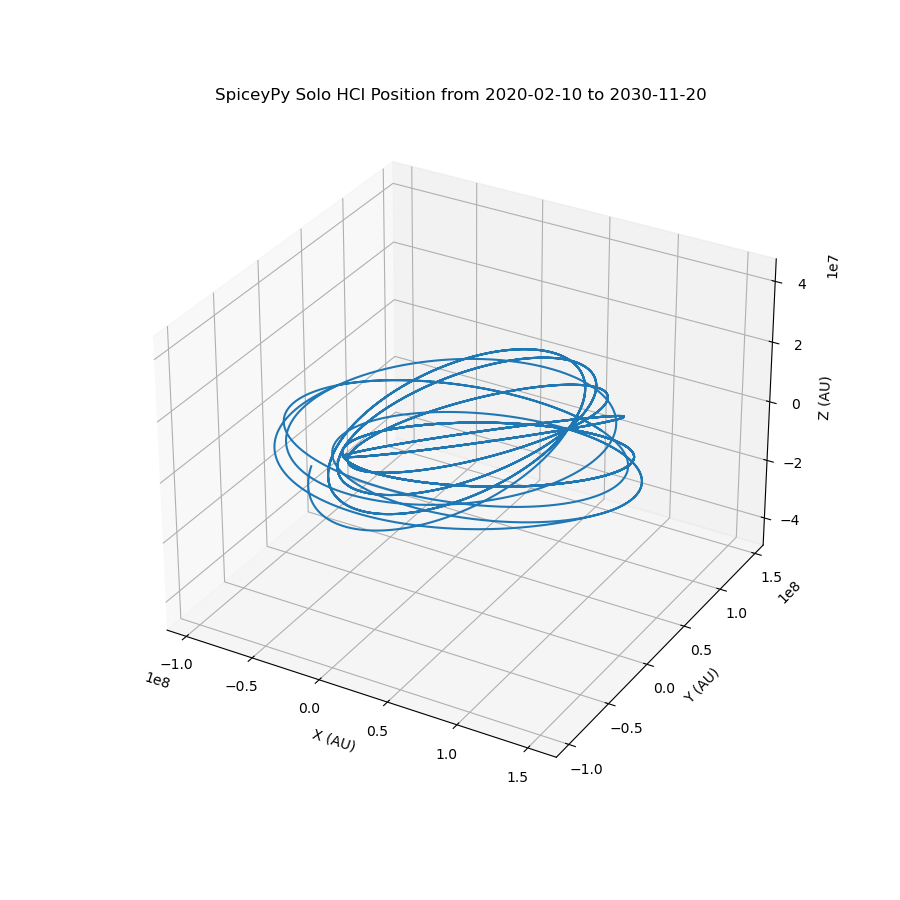
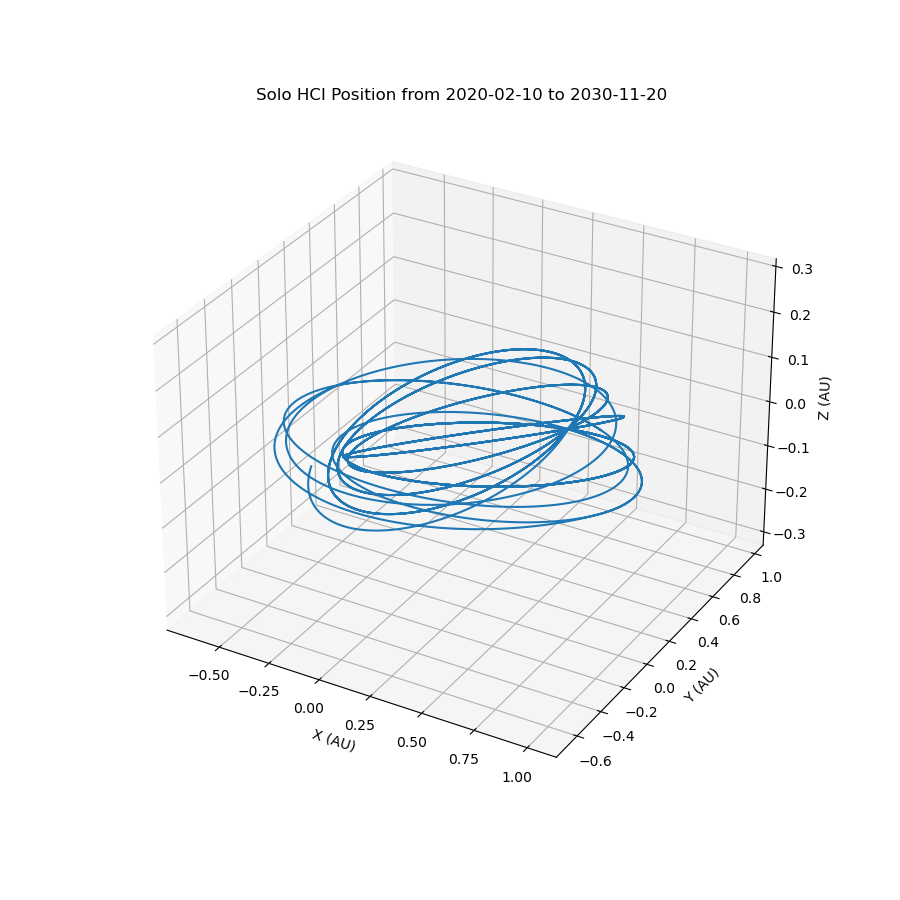
spice information created

diff --git a/solo_orbit.py b/solo_orbit.py
@@ -1,17 +1,11 @@
 import numpy as np
 import os
-from numpy.core.einsumfunc import _einsum_path_dispatcher
 import spiceypy as sp
 from pathlib import Path
 import spiceypy.utils.support_types as stypes
 import json
-import xml.etree.ElementTree as xmlet
+import math
 import matplotlib.pyplot as plt
-import matplotlib.patches as mpatches
-import matplotlib.lines as mlines
-import more_itertools as mit
-
-from IPython.core.debugger import set_trace
 
 def loadkernel(kpath, kname):
     "This function loads a SPICE kernel (which could be a metakernel) then returns to the current working directory."
@@ -71,82 +65,154 @@ def read_json(filename):
             config = json.load(f)
     return(config)
 
-def main():
-    AU = 149598000.0
+def find_nearest(array, value):
+    array = np.asarray(array)
+    idx = (np.abs(array - value)).argmin()
+    return idx
+
+def main(time, plot = False):
+    AU = 149598000.0 #in km
     "Does the Stuff"
     config = read_json("orbit_config_js.json")
     mk_path = Path(config["metakernel"]["path"])
     mk_name = config["metakernel"]["name"]
     loaded=loadkernel(mk_path, mk_name)
 
-    et_bounds=get_solo_coverage(mk_path)
+    et_bounds=get_solo_coverage(mk_path) #ephemeris time
 
-    ets = np.arange(et_bounds[0],et_bounds[1],21600)
+    ets = np.linspace(et_bounds[0],et_bounds[1],15744)
     ets[len(ets)-1]=et_bounds[1]
 
-    [solo_GSE_pos, ltime] = sp.spkpos("SOLO",ets,"SOLO_GSE","NONE","EARTH")
-    [solo_HCI_state, ltime] = sp.spkezr("SOLO",ets,"SUN_INERTIAL","NONE","SUN") 
+    [solo_GSE_pos, ltime_gse] = sp.spkpos("SOLO",ets,"SOLO_GSE","NONE","EARTH")
+    [solo_HCI_state, ltime] = sp.spkezr("SOLO",ets,"SOLO_HCI","NONE","SUN") #sp.spkezr("SOLO",ets,"SUN_INERTIAL","NONE","SUN")
+    [earth_HCI_pos, ltime] = sp.spkpos("EARTH",ets,"SOLO_HCI","NONE","SUN") 
 
     solo_HCI_state = np.array(solo_HCI_state)
     solo_GSE_pos = np.array(solo_GSE_pos)/AU 
     solo_HCI_pos = solo_HCI_state[:,0:3]
-    solo_HCI_vel = solo_HCI_state[:,3:6]    
+
+    solo_HCI_vel = solo_HCI_state[:,3:6] #in km/s    
+    
     solo_hdis = np.zeros(len(ets))
     solo_hlon = np.zeros(len(ets))
     solo_hlat = np.zeros(len(ets)) 
 
+    earth_HCI_pos = np.array(earth_HCI_pos)
+    earth_hlat = np.zeros(len(ets))
+
+    for i, void in enumerate(ets):
+        [solo_hdis[i],solo_hlon[i],solo_hlat[i]] = sp.reclat(solo_HCI_pos[i,:])
+        [buffer,buffer,earth_hlat[i]] = sp.reclat(earth_HCI_pos[i,:])
+
     solo_hdis = solo_hdis/AU   
-
     solo_hlat = solo_hlat*sp.dpr()
-
-    #print(ets, ets.shape)
-    #print(solo_GSE_pos, solo_GSE_pos.shape)
-
-    # plt.figure()
-    # plt.plot(ets, solo_GSE_pos)
+    solo_HCI_pos /= AU
+    earth_HCI_pos /= AU
 
     begin = et2datetime64(et_bounds[0])
-
     end = et2datetime64(et_bounds[1])
 
     begin_str = np.datetime_as_string(begin, unit = 'D')[0]
     end_str = np.datetime_as_string(end, unit = 'D')[0]
+    
+    if time <= begin or time >= end:
+        print(f"Requested time is not covered by the Kernel. Begin is {begin_str}. End is {end_str}")
 
-    print(begin_str)
-    print(end_str)
+    else:
+        print("\nSolar Orbiter Orbit Information \n")
 
-    #print(solo_HCI_pos, solo_HCI_pos.shape)
-    #print(solo_hdis, solo_hdis.shape)
-    #print(solo_hlat, solo_hlat.shape)
+        print(f"Your desired time is {time} \n")
 
-    positions = solo_GSE_pos.T # positions is shaped (4000, 3), let's transpose to (3, 4000) for easier indexing
-    fig = plt.figure(figsize=(9, 9))
-    ax  = fig.add_subplot(111, projection='3d')
-    ax.plot(positions[0], positions[1], positions[2])
-    plt.title(f'Solo GSE Position from {begin_str} to {end_str}')
-    ax.set_xlabel("X (AU)")
-    ax.set_ylabel("Y (AU)")
-    ax.set_zlabel("Z (AU)")
-    #plt.show()
+        desired_et = datetime642et(time)
 
-    plt.savefig("./plots/solo_orbit_plot_gse")
+        nearest_idx_et = find_nearest(ets, desired_et)
+        
+        HCI_pos = solo_HCI_pos[nearest_idx_et]
 
-    positions_hci = solo_HCI_pos.T # positions is shaped (4000, 3), let's transpose to (3, 4000) for easier indexing
-    fig = plt.figure(figsize=(9, 9))
-    ax  = fig.add_subplot(111, projection='3d')
-    ax.plot(positions_hci[0], positions_hci[1], positions_hci[2])
-    plt.title(f'Solo HCI Position from {begin_str} to {end_str}')
-    ax.set_xlabel("X (AU)")
-    ax.set_ylabel("Y (AU)")
-    ax.set_zlabel("Z (AU)")
-    #plt.show()
+        #print(HCI_pos)
 
-    plt.savefig("./plots/solo_orbit_plot")
+        distance_to_sun = solo_hdis[nearest_idx_et]
+
+        print(f"Distance to the Sun is: {distance_to_sun:.3g} AU \n")
+
+        print(f"Latitude = {solo_hlat[nearest_idx_et]*180/math.pi:.3g} \n") #range between -90 and 90 - angle from XY plane of the ray from origin to point
+
+        print(f"Longitude = {solo_hlon[nearest_idx_et]*180/math.pi:.3g} \n") #range is between -180 and 180
+
+        hrt_fov_deg = 1024*0.5/3600 #degrees of half the fov in one direction
+
+        hrt_fov_radians = hrt_fov_deg/180 *math.pi
+
+        solar_radius = 696340
+
+        hrt_sol_radius = distance_to_sun*hrt_fov_radians*AU/solar_radius #(in km)
+
+        print(f"Solar Radius visible in HRT FOV is {hrt_sol_radius:.3g} solar radii \n")
+
+        print(f"Light time to Earth is {ltime_gse[nearest_idx_et]:.4g} seconds\n")
+
+
+    if plot:
+
+        positions = solo_GSE_pos.T # positions is shaped (4000, 3), let's transpose to (3, 4000) for easier indexing
+        fig = plt.figure(figsize=(9, 9))
+        ax  = fig.add_subplot(111, projection='3d')
+        ax.plot(positions[0], positions[1], positions[2])
+        plt.title(f'Solo GSE Position from {begin_str} to {end_str}')
+        ax.set_xlabel("X (AU)")
+        ax.set_ylabel("Y (AU)")
+        ax.set_zlabel("Z (AU)")
+        #plt.show()
+
+        plt.savefig("./plots/solo_orbit_plot_gse")
+
+        positions_hci = solo_HCI_pos.T # positions is shaped (4000, 3), let's transpose to (3, 4000) for easier indexing
+        fig = plt.figure(figsize=(9, 9))
+        ax  = fig.add_subplot(111, projection='3d')
+        ax.plot(positions_hci[0], positions_hci[1], positions_hci[2])
+        plt.title(f'Solo HCI Position from {begin_str} to {end_str}')
+        ax.set_xlabel("X (AU)")
+        ax.set_ylabel("Y (AU)")
+        ax.set_zlabel("Z (AU)")
+        #plt.show()
+
+        plt.savefig("./plots/solo_orbit_plot")
+
+        inst_pos_hci = HCI_pos.T
+        inst_earth_hci = earth_HCI_pos[nearest_idx_et].T
+        fig = plt.figure(figsize=(9, 9))
+        ax  = fig.add_subplot(111, projection='3d')
+        ax.scatter(inst_pos_hci[0], inst_pos_hci[1], inst_pos_hci[2], label = "SOLO")
+        ax.scatter(inst_earth_hci[0], inst_earth_hci[1], inst_earth_hci[2], label = "EARTH")
+        ax.scatter(0, 0, 0, label = "SUN")
+        plt.legend()
+        plt.title(f'Solo HCI Position from at {time}')
+        ax.set_xlabel("X (AU)")
+        ax.set_ylabel("Y (AU)")
+        ax.set_zlabel("Z (AU)")
+        
+        #ax.view_init(elev = 90, azim = 90)
+
+        plt.savefig("./plots/inst_position_3d")
+
+        fig, ax = plt.subplots(figsize=(9, 9))
+        ax.scatter(inst_pos_hci[0], inst_pos_hci[1], label = "SOLO")
+        ax.scatter(inst_earth_hci[0], inst_earth_hci[1], label = "EARTH")
+        ax.scatter(0, 0, label = "SUN")
+        plt.legend()
+        plt.title(f'Solo HCI Position from at {time} on Ecliptical plane')
+        ax.set_xlabel("X (AU)")
+        ax.set_ylabel("Y (AU)")
+        
+        #ax.view_init(elev = 90, azim = 90)
+
+        plt.savefig("./plots/inst_position_2d")
+
 
     #plt.
 
 
 
+input_time = np.datetime64('2021-11-11T00:00')
 
-
-main()
+main(time = input_time, plot = True)
